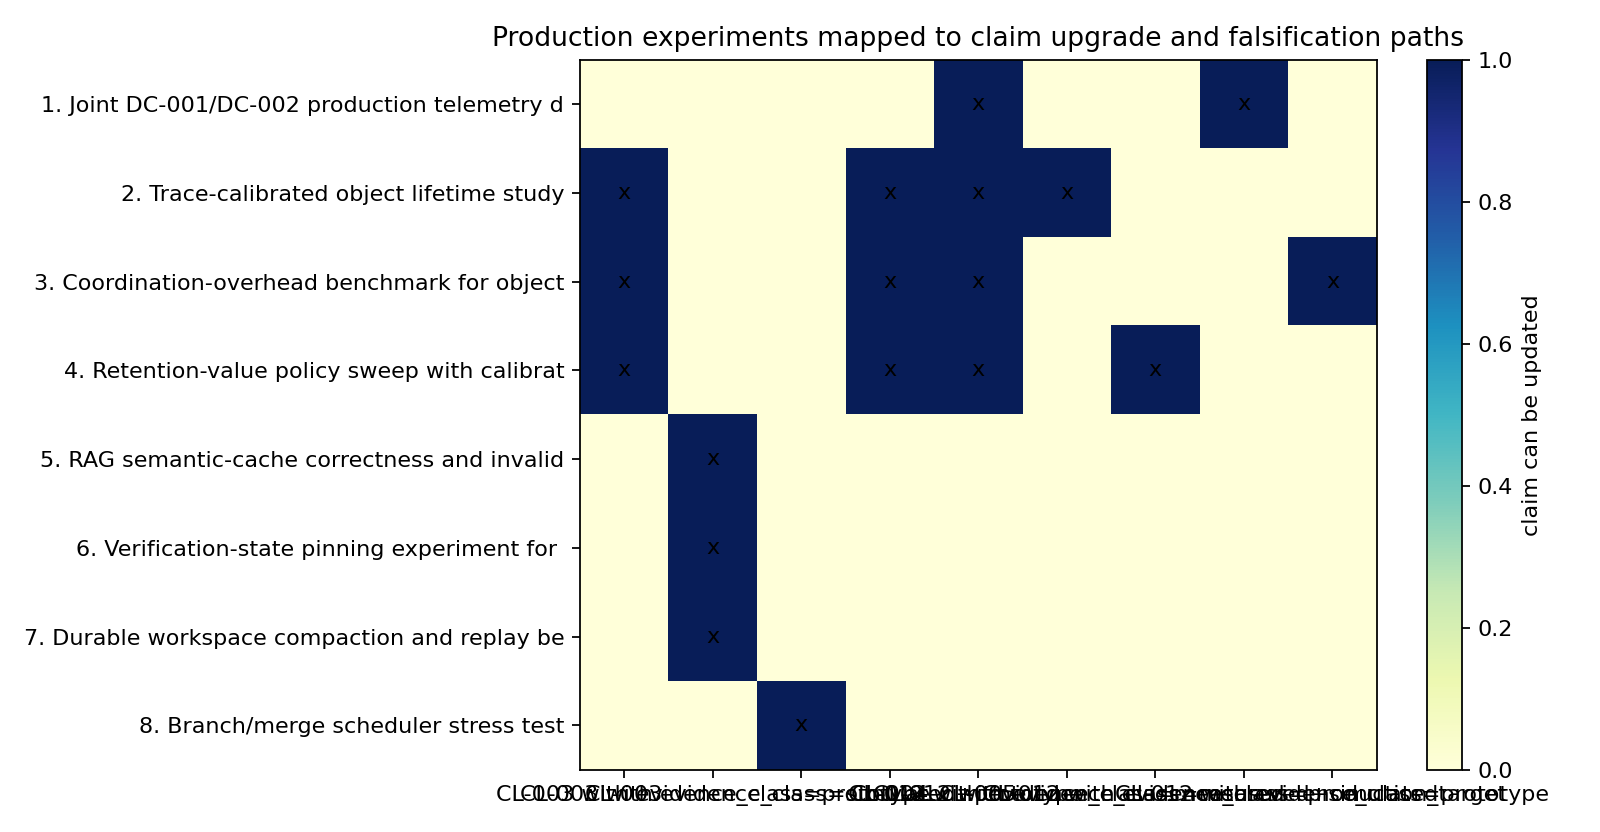
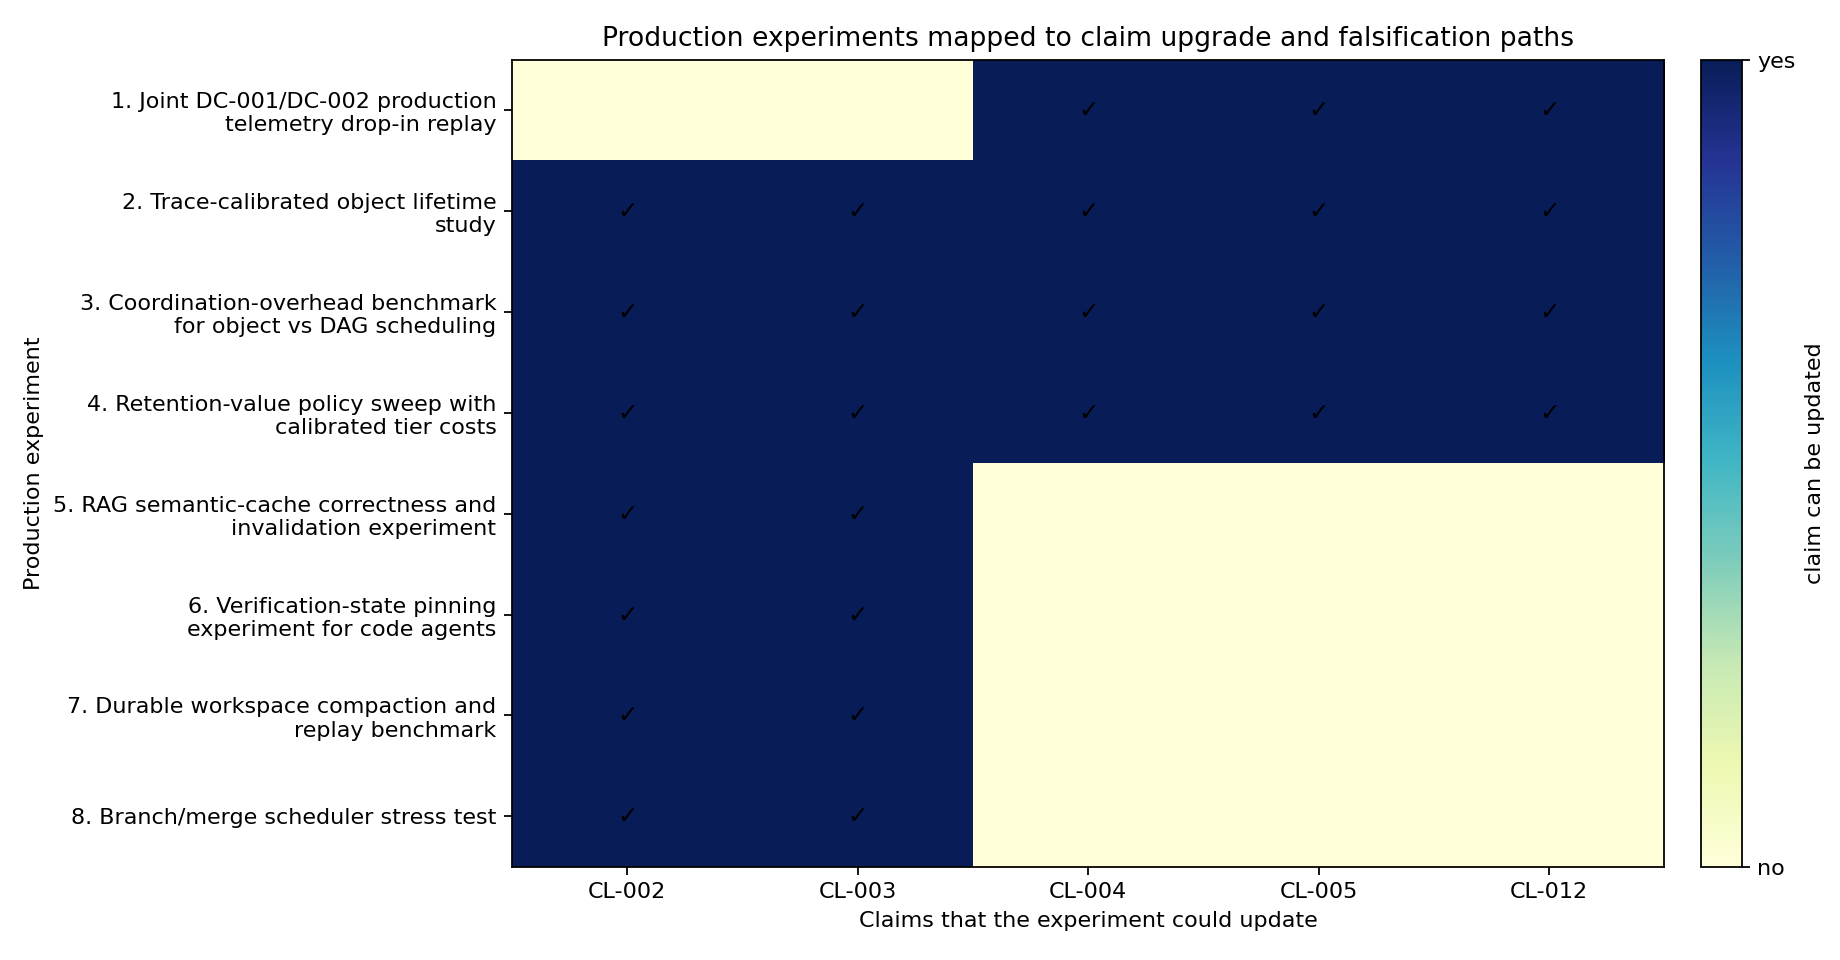
Improve final report figure formatting

diff --git a/Memory_Centric_Agentic_Inference/scripts/plot_architecture_control_plane_progression.py b/Memory_Centric_Agentic_Inference/scripts/plot_architecture_control_plane_progression.py
@@ -7,6 +7,7 @@
 from __future__ import annotations
 
 import csv
+import textwrap
 from pathlib import Path
 
 import matplotlib.pyplot as plt
@@ -38,11 +39,23 @@ def short_label(stage_id: str) -> str:
     return labels.get(stage_id, stage_id)
 
 
+def evidence_label(value: str) -> str:
+    labels = {
+        "validated_artifact": "validated",
+        "synthetic_trace_contract": "synthetic trace",
+        "synthetic_contract": "synthetic contract",
+        "synthetic_integration_replay": "integration replay",
+        "derived_synthesis": "derived synthesis",
+        "future_production_target_prerequisite": "future production gate",
+    }
+    return labels.get(value, value.replace("_", " "))
+
+
 def main() -> None:
     rows = read_rows()
-    fig, ax = plt.subplots(figsize=(13, 5.8))
+    fig, ax = plt.subplots(figsize=(14.5, 6.2))
     ax.set_xlim(-0.6, len(rows) - 0.4)
-    ax.set_ylim(-1.2, 1.6)
+    ax.set_ylim(-1.25, 1.65)
     ax.axis("off")
 
     for idx, row in enumerate(rows):
@@ -58,8 +71,15 @@ def main() -> None:
             fontsize=10,
             bbox={"boxstyle": "round,pad=0.35", "fc": face, "ec": color, "lw": 1.6},
         )
-        ax.text(idx, -0.2, row["evidence_label"], ha="center", va="center", fontsize=8, rotation=25)
-        ax.text(idx, -0.72, f"production_credit={row['production_credit_allowed']}", ha="center", va="center", fontsize=8)
+        ax.text(
+            idx,
+            -0.2,
+            "\n".join(textwrap.wrap(evidence_label(row["evidence_label"]), width=16)),
+            ha="center",
+            va="center",
+            fontsize=8,
+            color="#333333",
+        )
         if idx < len(rows) - 1:
             ax.add_patch(FancyArrowPatch((idx + 0.35, 0.45), (idx + 0.65, 0.45), arrowstyle="->", mutation_scale=12, color="#555555", lw=1.2))
 
@@ -68,20 +88,29 @@ def main() -> None:
     ax.text(
         gate_idx,
         1.22,
-        "blocked downstream path unless real trusted production_target evidence passes every gate",
+        "blocked until trusted production-target evidence passes all gates",
         ha="center",
         va="center",
-        fontsize=10,
+        fontsize=9,
         color="#9D2B2B",
     )
     ax.text(
         3.5,
         1.22,
-        "memory-object contract validation -> runtime/planner compatibility -> fail-closed action gating",
+        "contract validation -> runtime/planner compatibility -> fail-closed action gating",
         ha="center",
         va="center",
-        fontsize=11,
+        fontsize=10,
         color="#1F4E79",
+    )
+    ax.text(
+        4.0,
+        -0.85,
+        "Production credit remains false across all stages; the final gate is a future prerequisite, not evidence from this run.",
+        ha="center",
+        va="center",
+        fontsize=9,
+        color="#333333",
     )
     ax.set_title(
         "Control-plane progression from memory-object contract validation to runtime/planner action gating",

diff --git a/Memory_Centric_Agentic_Inference/scripts/plot_campaign_handoff.py b/Memory_Centric_Agentic_Inference/scripts/plot_campaign_handoff.py
@@ -7,6 +7,8 @@
 from __future__ import annotations
 
 import csv
+import re
+import textwrap
 from collections import Counter, defaultdict
 from pathlib import Path
 
@@ -71,22 +73,34 @@ def plot_claim_traceability_coverage(rows: list[dict[str, str]]) -> None:
 
 def plot_experiment_upgrade_path(rows: list[dict[str, str]]) -> None:
     rows = rows[:8]
-    claims = sorted({claim.strip() for r in rows for claim in r.get("claim_upgrade_path", "").replace("Can update", "").split("only after")[0].split(";") if claim.strip().startswith("CL-")})
+    claims = sorted({
+        claim
+        for r in rows
+        for claim in re.findall(r"CL-\d{3}", r.get("claim_upgrade_path", ""))
+    })
     if not claims:
         claims = ["CL-002", "CL-003", "CL-004", "CL-005", "CL-012"]
     matrix = []
     for row in rows:
-        linked = set(row.get("claim_upgrade_path", "").replace("Can update", "").split("only after")[0].replace(",", ";").split(";"))
-        matrix.append([1 if claim in {x.strip() for x in linked} else 0 for claim in claims])
-    fig, ax = plt.subplots(figsize=(10, 5.2))
+        linked = set(re.findall(r"CL-\d{3}", row.get("claim_upgrade_path", "")))
+        matrix.append([1 if claim in linked else 0 for claim in claims])
+    fig, ax = plt.subplots(figsize=(11.5, 6.0))
     im = ax.imshow(matrix, cmap="YlGnBu", aspect="auto", vmin=0, vmax=1)
     ax.set_xticks(range(len(claims)), claims)
-    ax.set_yticks(range(len(rows)), [f"{r['rank']}. {r['open_question'][:42]}" for r in rows])
+    ylabels = [
+        f"{r['rank']}. " + "\n".join(textwrap.wrap(r["open_question"], width=34, max_lines=2, placeholder="..."))
+        for r in rows
+    ]
+    ax.set_yticks(range(len(rows)), ylabels)
     ax.set_title("Production experiments mapped to claim upgrade and falsification paths")
+    ax.set_xlabel("Claims that the experiment could update")
+    ax.set_ylabel("Production experiment")
     for y, row in enumerate(matrix):
         for x, value in enumerate(row):
-            ax.text(x, y, "x" if value else "", ha="center", va="center", color="black")
-    fig.colorbar(im, ax=ax, label="claim can be updated")
+            ax.text(x, y, "✓" if value else "", ha="center", va="center", color="black", fontsize=11)
+    cbar = fig.colorbar(im, ax=ax, label="claim can be updated", fraction=0.04, pad=0.03)
+    cbar.set_ticks([0, 1])
+    cbar.set_ticklabels(["no", "yes"])
     save(DATA / "handoff_experiment_upgrade_path.png")
 
 